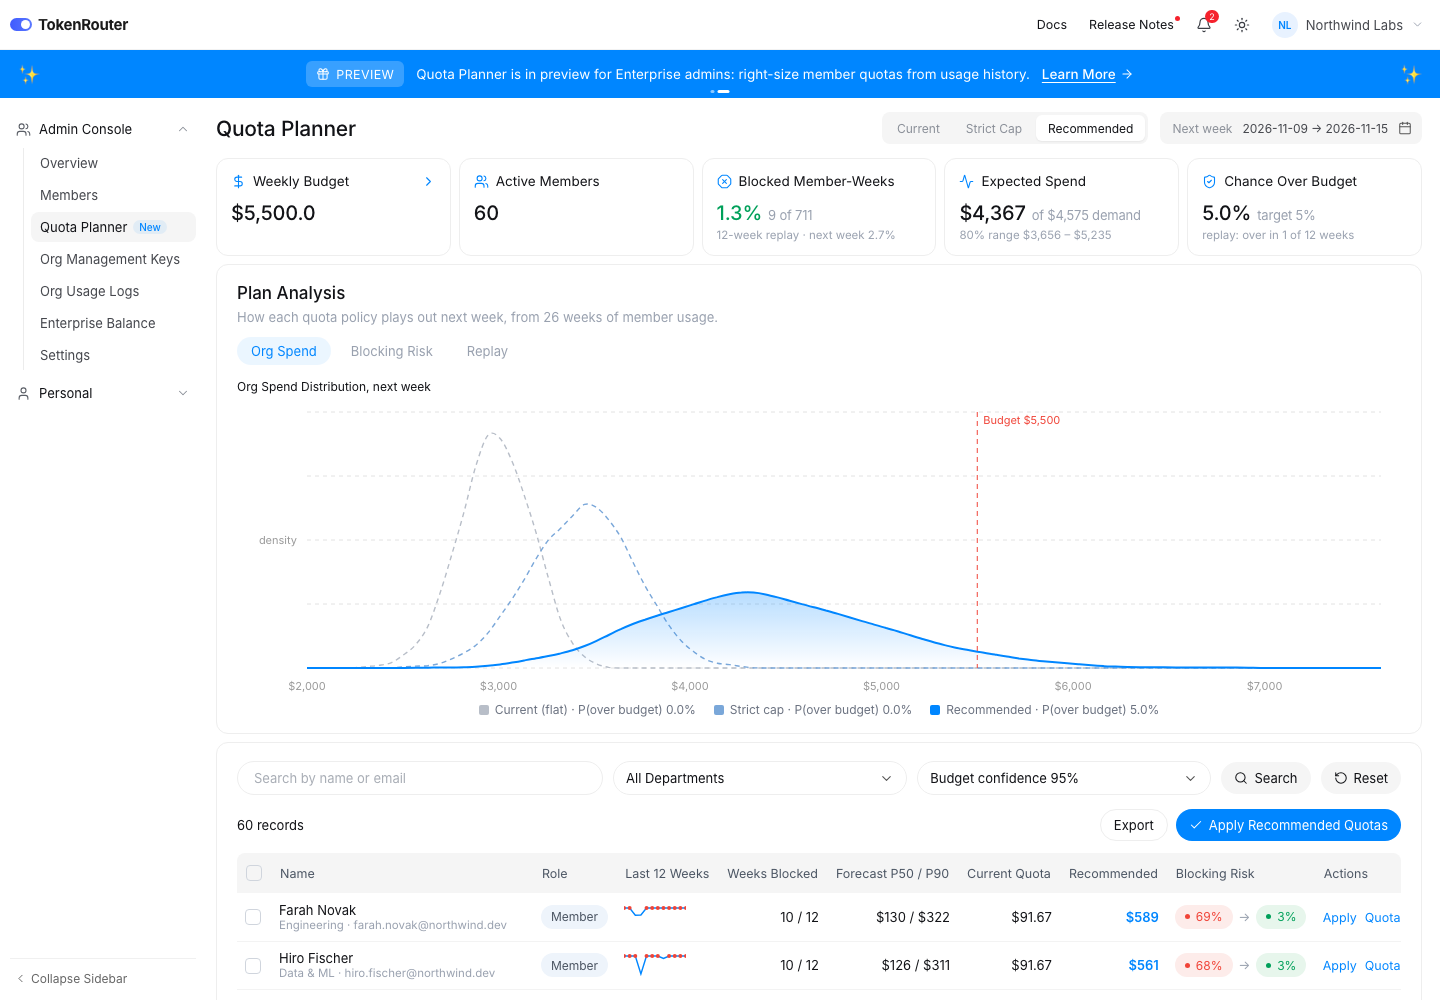
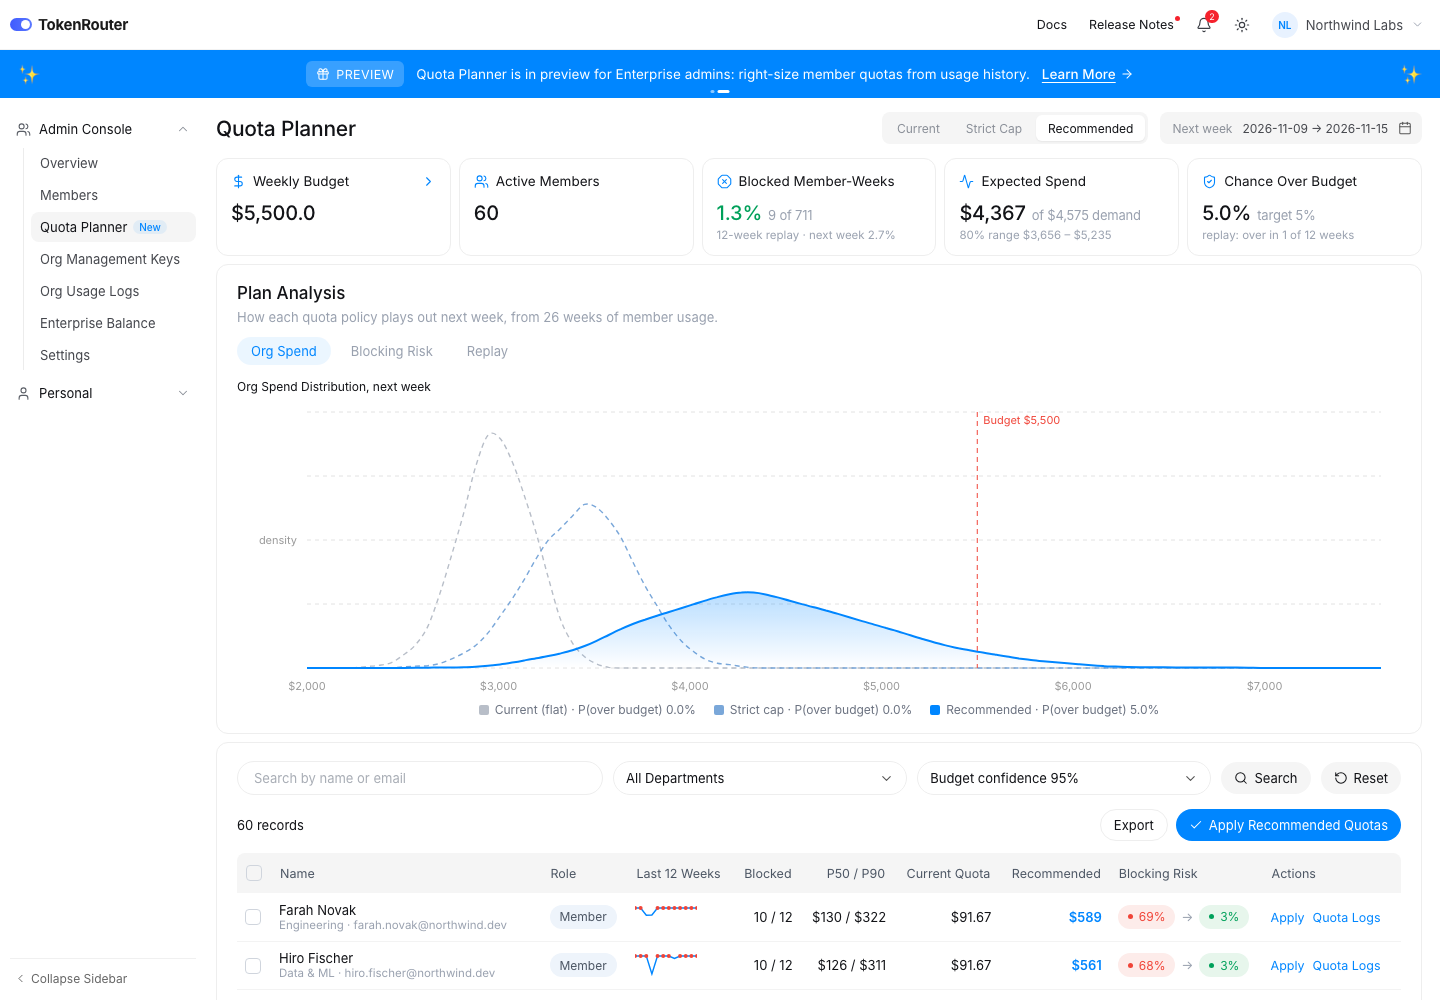
Compact table headers

diff --git a/app.js b/app.js
@@ -153,7 +153,7 @@ function table() {
   document.querySelector('.pg b').textContent = page + 1;
   $('applyAll').innerHTML = applied ? '<i data-lucide="check"></i>Quotas Applied' : '<i data-lucide="check"></i>Apply Recommended Quotas';
   $('applyAll').classList.toggle('done', applied);
-  $('tbl').innerHTML = `<thead><tr><th style="width:34px"><span class="cbx"></span></th><th>Name</th><th>Role</th><th>Last 12 Weeks</th><th class="r">Weeks Blocked</th><th class="r">Forecast P50 / P90</th><th class="r">Current Quota</th><th class="r">${mode === 'flat' ? 'Quota' : LABEL[mode]}</th><th>Blocking Risk</th><th>Actions</th></tr></thead><tbody>` +
+  $('tbl').innerHTML = `<thead><tr><th style="width:34px"><span class="cbx"></span></th><th>Name</th><th>Role</th><th>Last 12 Weeks</th><th class="r">Blocked</th><th class="r">P50 / P90</th><th class="r">Current Quota</th><th class="r">${mode === 'flat' ? 'Quota' : LABEL[mode]}</th><th>Blocking Risk</th><th>Actions</th></tr></thead><tbody>` +
     slice.map((r) => {
       const qc = R.quotas.flat[r.i], qn = R.quotas[mode][r.i];
       const role = r.mm.role === 'Super Admin' ? 'super' : r.mm.role === 'Admin' ? 'admin' : '';

diff --git a/style.css b/style.css
@@ -98,7 +98,7 @@ svg.lucide { width: 16px; height: 16px; stroke-width: 1.75; }
 .btn.done { background: #e8f3ff; color: var(--brand); }
 .tbar { display: flex; align-items: center; justify-content: space-between; margin: 14px 0 12px; font-size: 13px; }
 .tbtns { display: flex; gap: 8px; }
-.tablewrap { border-radius: 8px; overflow: hidden; }
+.tablewrap { border-radius: 8px; overflow-x: auto; }
 table { width: 100%; border-collapse: collapse; }
 th { background: var(--surf-m); font-weight: 400; font-size: 12.5px; color: #4b5563; text-align: left; padding: 0 9px; height: 40px; white-space: nowrap; }
 th.r, td.r { text-align: right; }
